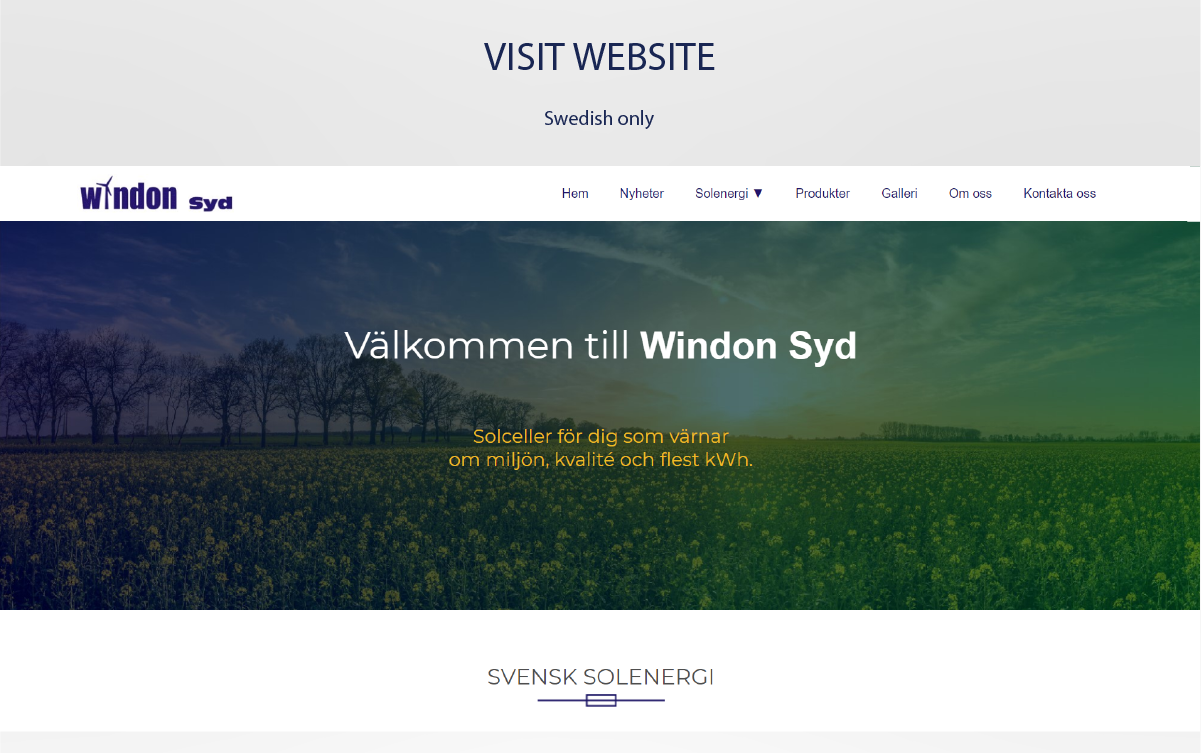
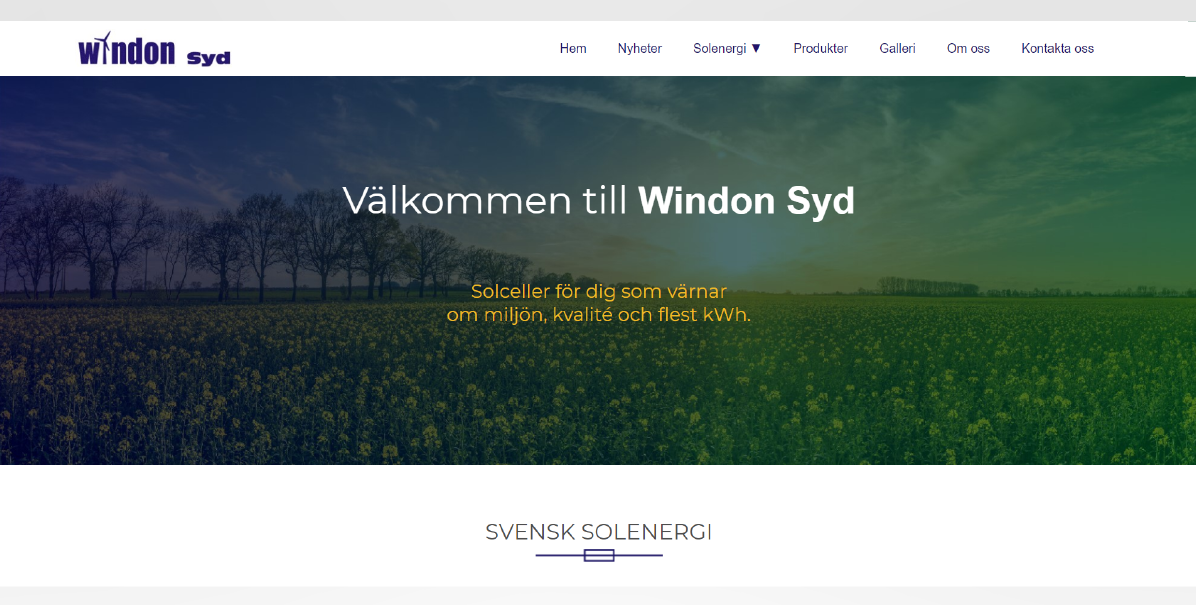
Changing to Windon Syd landingpage image without link

diff --git a/windonsyd.html b/windonsyd.html
@@ -104,9 +104,7 @@
         </div>
         <div class="row">
             <div class="col-md-12">
-                <a href="https://www.windonsyd.se/index.html">
-                    <img border="0" alt="Windon Syd webbsida" src="assets/images/windonsyd/windonsyd-landingpage.png">
-                </a>
+                <img alt="Windon Syd webbsida" src="assets/images/windonsyd/windonsyd-landingpage.png">
             </div>
         </div>
         <div class="row">
